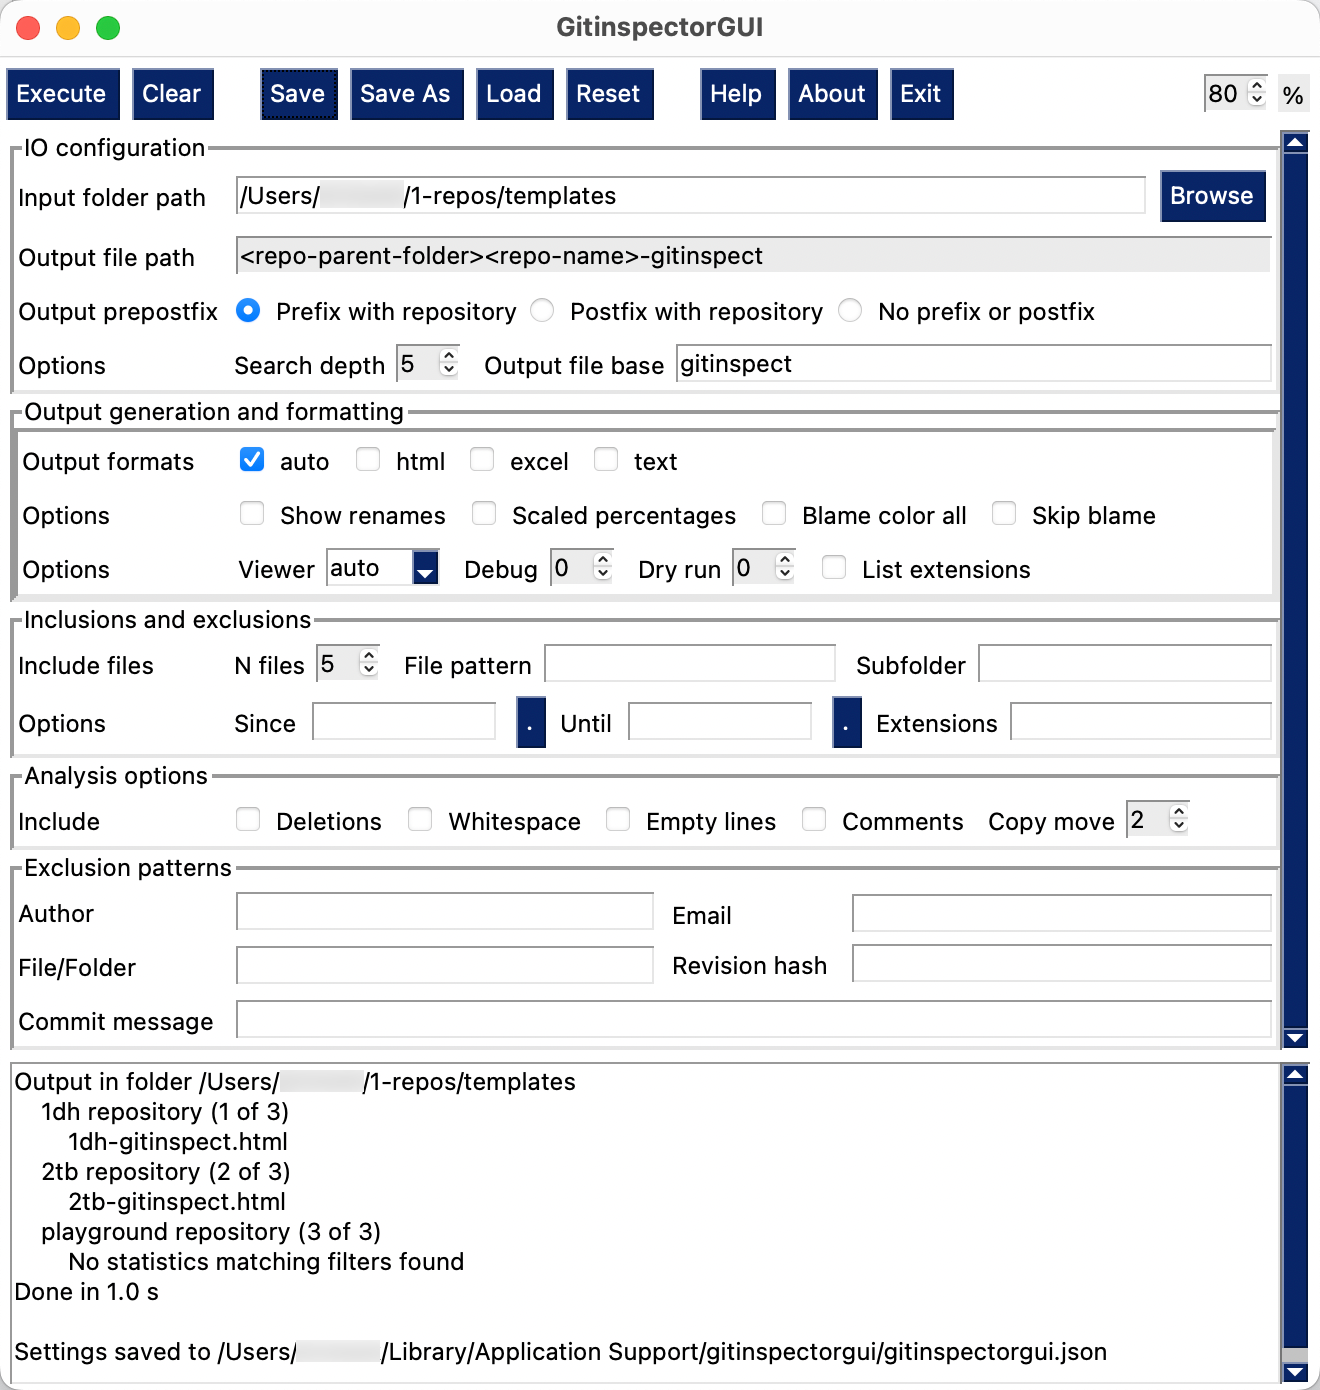
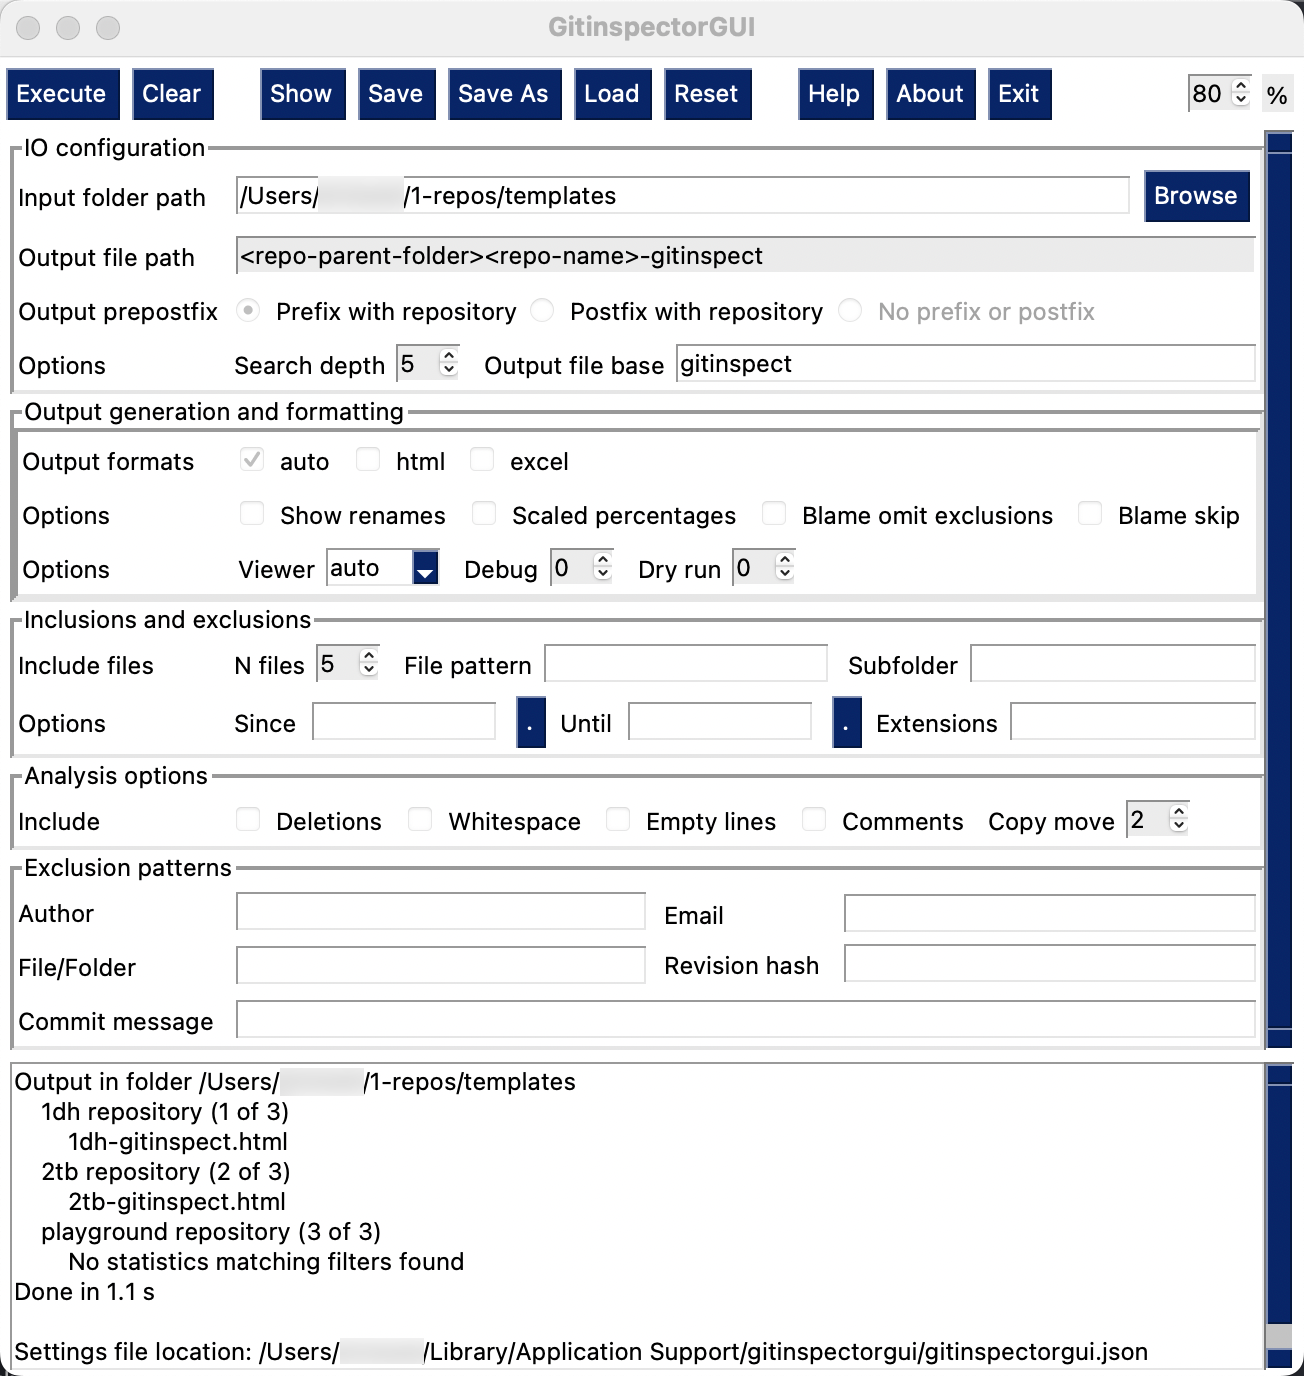
Update content of docs to version 0.3.1

diff --git a/docs/source/cli.rst b/docs/source/cli.rst
@@ -6,18 +6,15 @@ Synopsis
 .. code:: text
 
   gitinspectorgui
-    [-h]
-    [--gui | -V | --show | --save | --save-as PATH | --load PATH | --reset]
+    [-h | --gui | -V | --show | --save | --save-as PATH | --load PATH | --reset]
     [-d DEPTH] [-o FILEBASE] [--fix {prefix,postfix,nofix}]
-    [-F {auto,html,excel,text}] [--show-renames | --no-show-renames]
+    [-F {auto,html,excel}] [--show-renames | --no-show-renames]
     [--scaled-percentages | --no-scaled-percentages]
     [--blame-omit-exclusions | --no-blame-omit-exclusions]
-    [--skip-blame | --no-skip-blame] [--viewer {auto,none}] [-v]
-    [--dry-run {0,1,2}]
-    [-l | --list-extensions | --no-list-extensions]
-    [-n N | -f PATTERNS] [--subfolder SUBFOLDER] [--since SINCE]
-    [--until UNTIL] [-e EXTENSIONS] [--deletions | --no-deletions]
-    [--whitespace | --no-whitespace]
+    [--blame-skip | --no-blame-skip] [--viewer {auto,none}] [-v]
+    [--dry-run {0,1,2}] [-n N | -f PATTERNS] [--subfolder SUBFOLDER]
+    [--since SINCE] [--until UNTIL] [-e EXTENSIONS]
+    [--deletions | --no-deletions] [--whitespace | --no-whitespace]
     [--empty-lines | --no-empty-lines] [--comments | --no-comments]
     [--copy-move N] [--multi-thread | --no-multi-thread]
     [--multi-core | --no-multi-core] [--ex-files PATTERNS]
@@ -35,6 +32,9 @@ file. They start by loading the settings from the settings file.
 
 Mutually exclusive options
 --------------------------
+
+``-h`` ``--help``
+  Display help and exit. This has priority over the other settings.
 
 ``--gui``
   Start the GUI with settings loaded from the settings file.
@@ -111,7 +111,7 @@ Output formats
 ^^^^^^^^^^^^^^
 ``-F FORMAT`` ``--format FORMAT``
   Selects for which file formats output is generated. Available choices are
-  ``auto``, ``html``, ``excel`` and ``text``. To select more than one output
+  ``auto``, ``html``and ``excel``. To select more than one output
   format, repeat the option, e.g. ``-F html -F excel``.
   For more information on the output formats, see :doc:`output-formats`.
 
@@ -159,10 +159,8 @@ in the blame sheets as white, uncolored lines. When the option
 ``--blame-omit-exclusions`` is active, the blame sheets omit the excluded lines
 from the blame output.
 
-``--skip-blame``
+``--blame-skip``
   Do not output html blame tabs or Excel blame sheets.
-
-
 
 ``--viewer {auto,none}``
 
@@ -183,11 +181,6 @@ from the blame output.
     not write any output files and do not open any viewers.
   - 2: Do not perform any analysis and do not produce any file or viewer output,
     but do print output lines to the console.
-
-``-l`` ``--extensions-list`` ``--no-extensions-list``
-  Output a list of file extensions used in the current branch of the
-  repository.
-
 
 
 Inclusions and exclusions

diff --git a/docs/source/gui.rst b/docs/source/gui.rst
@@ -25,6 +25,9 @@ Execute
 Clear
   Clear the console, the textual output box at the bottom.
 
+Show
+  Show the location of the settings file in the console.
+
 Save
   Save all settings specified in the GUI to the currently active settings file
   and print this file name to the console, see the above figure.
@@ -148,7 +151,7 @@ Output generation and formatting
 Output formats
 ^^^^^^^^^^^^^^
 Selects for which file formats output is generated. Available choices are
-:guilabel:`auto`, :guilabel:`html`, :guilabel:`excel` and :guilabel:`text`. For
+:guilabel:`auto`, :guilabel:`html` and :guilabel:`excel`. For
 more information on the output formats, see :doc:`output-formats`.
 
 .. _blame-sheets-gui:
@@ -195,8 +198,7 @@ in the blame sheets as white, uncolored lines. When the option :guilabel:`Blame
 omit exclusions` is active, the blame sheets omit the excluded lines from the
 blame output.
 
-
-Skip blame
+Blame skip
   Do not output html blame tabs or Excel blame sheets.
 
 Viewer
@@ -221,10 +223,6 @@ Dry run
     not write any output files and do not open any viewers.
   - 2: Do not perform any analysis and do not produce any file or viewer output,
     but do print output lines to the console.
-
-List extensions
-  Output a list of file extensions used in the current branch of the
-  repository.
 
 
 Inclusions and exclusions

diff --git a/docs/source/output-formats.rst b/docs/source/output-formats.rst
@@ -38,9 +38,6 @@ Available output formats
   When :guilabel:`auto` is selected, the other output formats are automatically
   deselected.
 
-:guilabel:`text`
-	Plain text with some very simple ANSI formatting.
-
 
 Output tabs and sheets
 ----------------------
